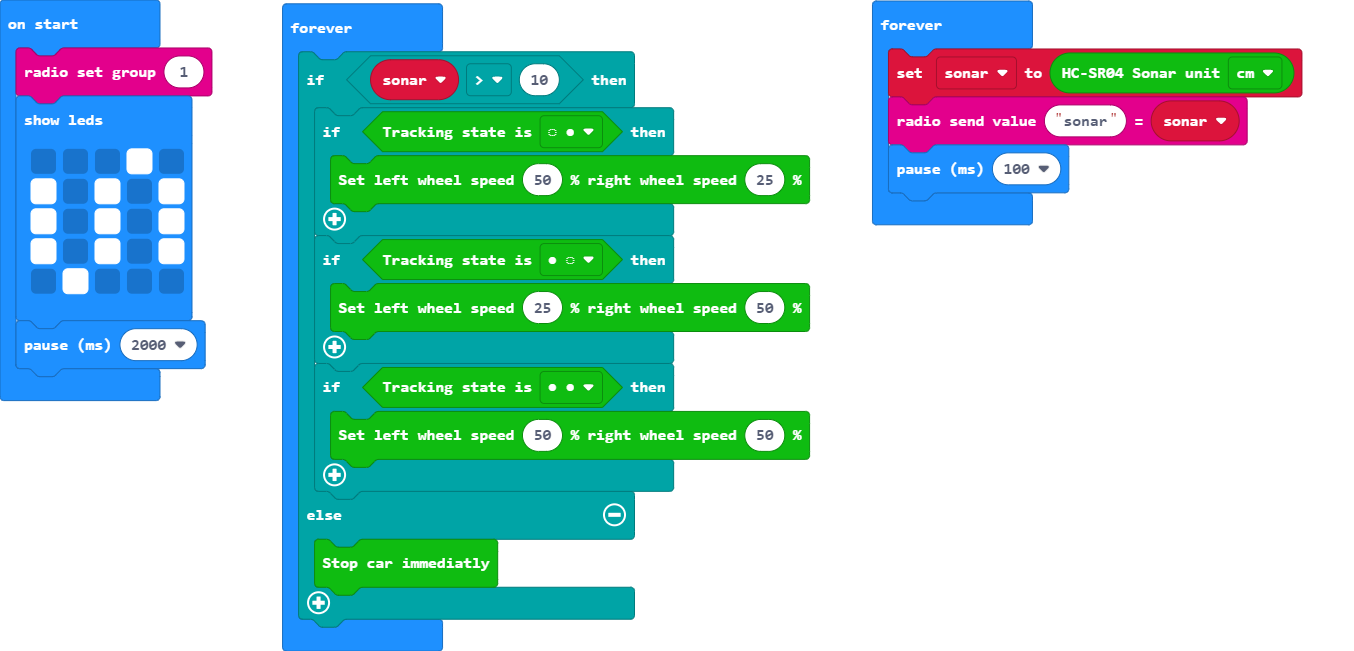
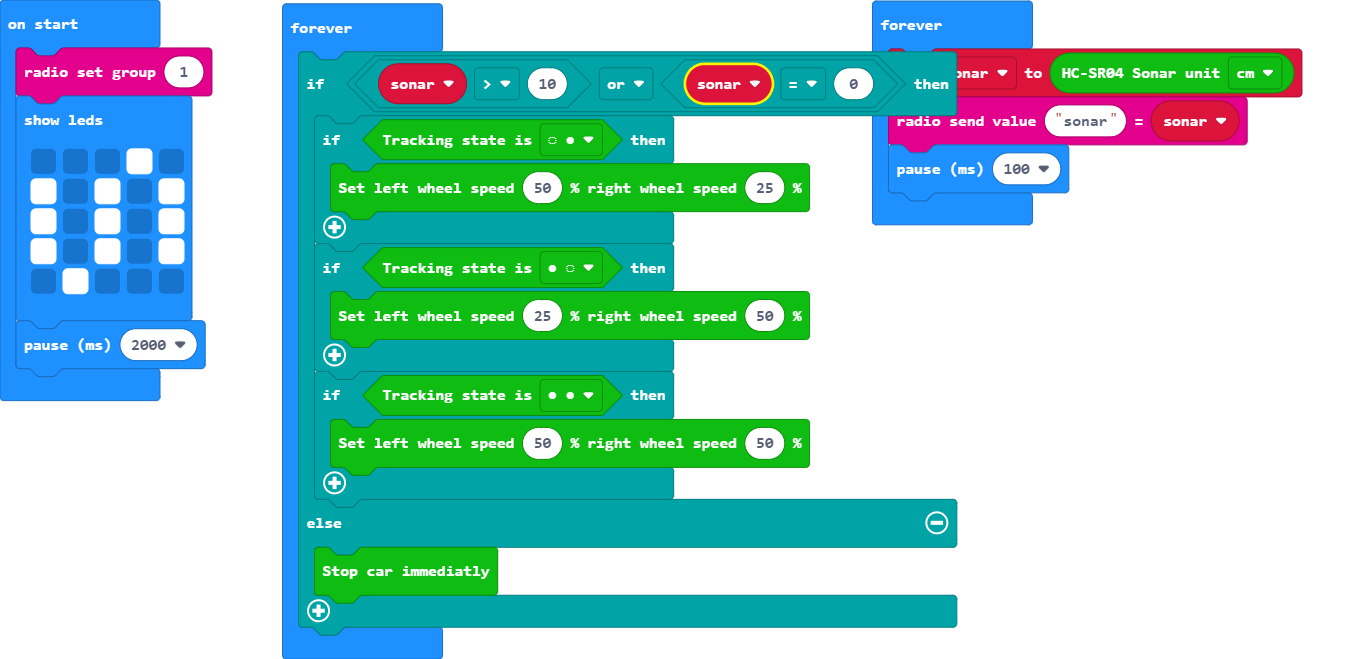
Fix buggy sonar data

diff --git a/main.ts b/main.ts
@@ -9,7 +9,7 @@ basic.showLeds(`
     `)
 basic.pause(2000)
 basic.forever(function () {
-    if (sonar > 10) {
+    if (sonar > 10 || sonar == 0) {
         if (cuteBot.tracking(cuteBot.TrackingState.L_unline_R_line)) {
             cuteBot.motors(50, 25)
         }
